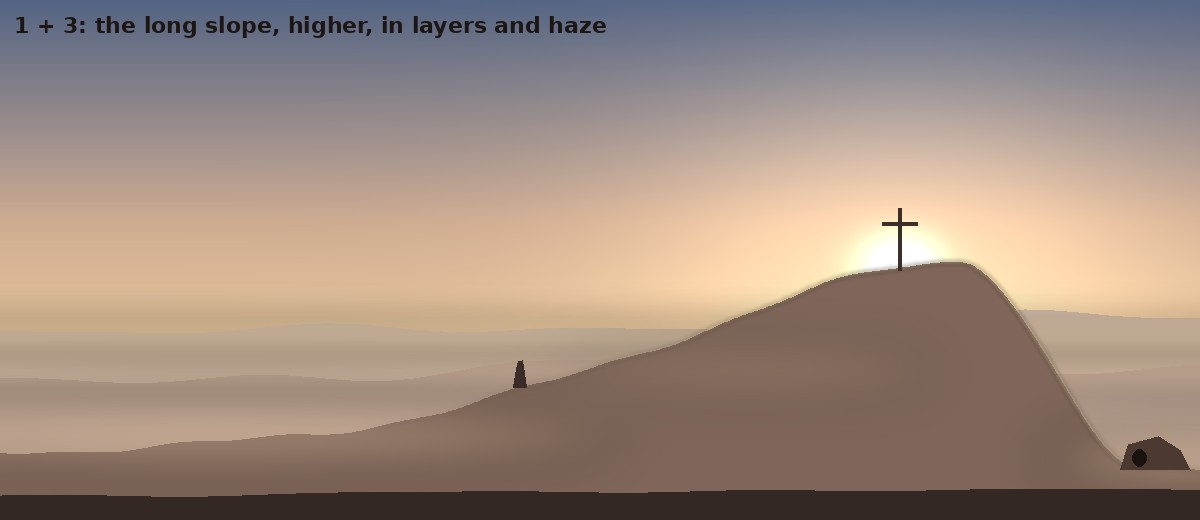
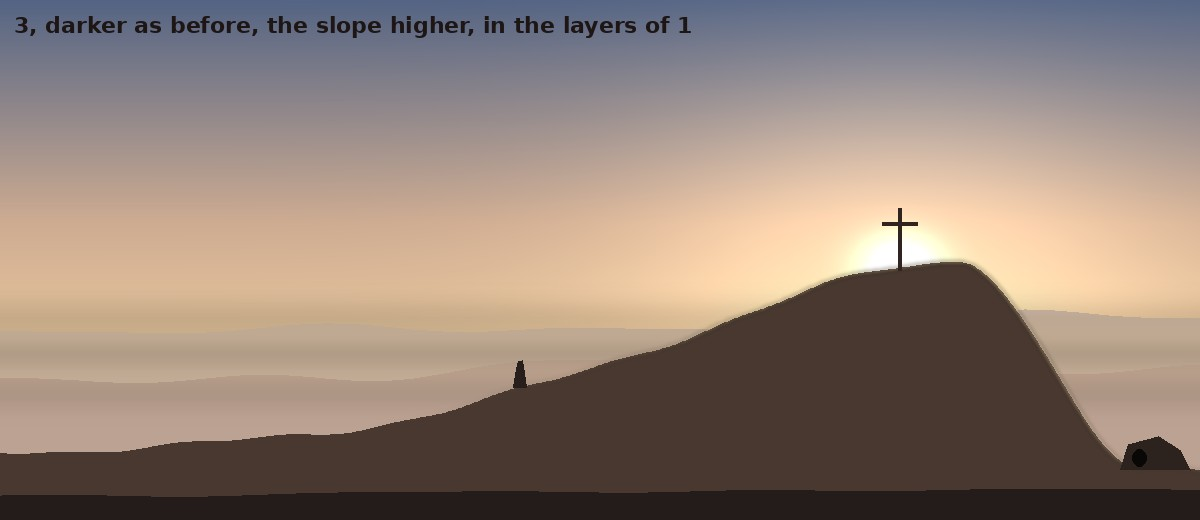
Level 5 sketch: the slope dark again
Claude-Session: https://claude.ai/code/session_017HrTSHS2zYJPTp1hrn9Z3X

Changed region(s): [[0.0, 0.4923, 1.0, 0.9538], [0.0, 0.0308, 0.5858, 0.0923]]

diff --git a/CLAUDE.md b/CLAUDE.md
@@ -559,6 +559,6 @@ Counted by episode from the book's section numbers (later long conversations shr
 | 16 | The Enchanted Ground | |
 | 17 | Beulah, the River, the Celestial City | to `{404}` |
 
-**LEVEL 5, THE CROSS: THE PLAN (owner: "ok let's do it", then "go with your recommendations, make the sketch"; checked against `{92}` to `{94}`, `{100}`, `{101}`, `{120}`).** After Caspar David Friedrich (*Cross in the Mountains*, *Monk by the Sea*): the opposite of Level 3's terror, power by emptiness. A low horizon, about three quarters sky; he comes up the walled highway (`{92}`, "that wall was called Salvation", a low coursed wall that ends where the land opens) onto "a place somewhat ascending", one long gentle rise; on its crest in the right third ONE small plain rough cross, nothing on it; the sepulchre "a little below, in the bottom" on the far slope, a low rock with a dark mouth. **Dawn, the game's first** (the book names no time; it falls between the night at the Interpreter's and "almost night" at the arbour, `{102}`): cold blue-grey before; the far light he has followed since Level 1 rises exactly behind where the beams cross. The burden falls BY ITSELF as he comes up (the book: "just as Christian came up with the cross, his burden loosed"), the child does not cut it loose; it tumbles down into the tomb ("I saw it no more"); silence first, then colour returns from the light outward and Amazing Grace plays whole and in tune for the first time. He weeps and looks up ("while I stood looking up", `{120}`). **The three Shining Ones are figures of light** (the book gives them no look here; at the River "raiment that shone like gold; also their faces shone as the light"). **He wears a new coat from here on** (the book: rags at `{10}`, "change of raiment" at the Cross, "this broidered coat which you see", the coat noticed by Formalist and Hypocrisy, `{100}`, `{101}`; "the mark which you see in my forehead"): first try painting it into his existing frames, free. The sealed roll goes into the tray (`KS.waxSeal`). Three leaps for joy is the child's act. Sketch drawn in code, free: `concept/level5-cross-sketch.jpg` (A before dawn with the burden; B after, the sun behind the crossing, the three Shining Ones, him kneeling without the burden). **The hill (owner: "cross should be on more of hill no?", then of three thumbnails: "a blend of 1 and 3 (maybe 3 with slightly higher hill and lighten spots)"):** one LONG SLOPE rising left to right across the picture to a rounded crown in the right third, the cross small on it against the dawn, the sun behind it; a quicker fall on the far side to the hollow where the tomb lies; pale far ridges in layers of haze behind (the game's look), the slope itself a lighter warm tone with haze lying in its hollows and a lit rim along the crown: `concept/level5-cross-blend.jpg`. Turned down: a smooth round dome with the cross on top ("doesn't look right"). The before/after panels of `level5-cross-sketch.jpg` still show the old dome.
+**LEVEL 5, THE CROSS: THE PLAN (owner: "ok let's do it", then "go with your recommendations, make the sketch"; checked against `{92}` to `{94}`, `{100}`, `{101}`, `{120}`).** After Caspar David Friedrich (*Cross in the Mountains*, *Monk by the Sea*): the opposite of Level 3's terror, power by emptiness. A low horizon, about three quarters sky; he comes up the walled highway (`{92}`, "that wall was called Salvation", a low coursed wall that ends where the land opens) onto "a place somewhat ascending", one long gentle rise; on its crest in the right third ONE small plain rough cross, nothing on it; the sepulchre "a little below, in the bottom" on the far slope, a low rock with a dark mouth. **Dawn, the game's first** (the book names no time; it falls between the night at the Interpreter's and "almost night" at the arbour, `{102}`): cold blue-grey before; the far light he has followed since Level 1 rises exactly behind where the beams cross. The burden falls BY ITSELF as he comes up (the book: "just as Christian came up with the cross, his burden loosed"), the child does not cut it loose; it tumbles down into the tomb ("I saw it no more"); silence first, then colour returns from the light outward and Amazing Grace plays whole and in tune for the first time. He weeps and looks up ("while I stood looking up", `{120}`). **The three Shining Ones are figures of light** (the book gives them no look here; at the River "raiment that shone like gold; also their faces shone as the light"). **He wears a new coat from here on** (the book: rags at `{10}`, "change of raiment" at the Cross, "this broidered coat which you see", the coat noticed by Formalist and Hypocrisy, `{100}`, `{101}`; "the mark which you see in my forehead"): first try painting it into his existing frames, free. The sealed roll goes into the tray (`KS.waxSeal`). Three leaps for joy is the child's act. Sketch drawn in code, free: `concept/level5-cross-sketch.jpg` (A before dawn with the burden; B after, the sun behind the crossing, the three Shining Ones, him kneeling without the burden). **The hill (owner: "cross should be on more of hill no?", then of three thumbnails: "a blend of 1 and 3 (maybe 3 with slightly higher hill and lighten spots)"):** one LONG SLOPE rising left to right across the picture to a rounded crown in the right third, the cross small on it against the dawn, the sun behind it; a quicker fall on the far side to the hollow where the tomb lies; pale far ridges in layers of haze behind (the game's look), the slope itself DARK (owner: "no i liked the darker one": a lighter slope with haze in its hollows was tried and turned down), with a thin lit rim along the crown: `concept/level5-cross-blend.jpg`. Turned down: a smooth round dome with the cross on top ("doesn't look right"). The before/after panels of `level5-cross-sketch.jpg` still show the old dome.
 
 A first finish line: **Level 5, the Cross** (the burden carried since the first screen falls off), so Levels 1 to 5 stand as a whole game. Could be about 14 by also joining the Delectable Mountains with Ignorance, and the Enchanted Ground into the last level. Rough size: about $3 a level for pictures, videos and voices, more where there are many new people.
